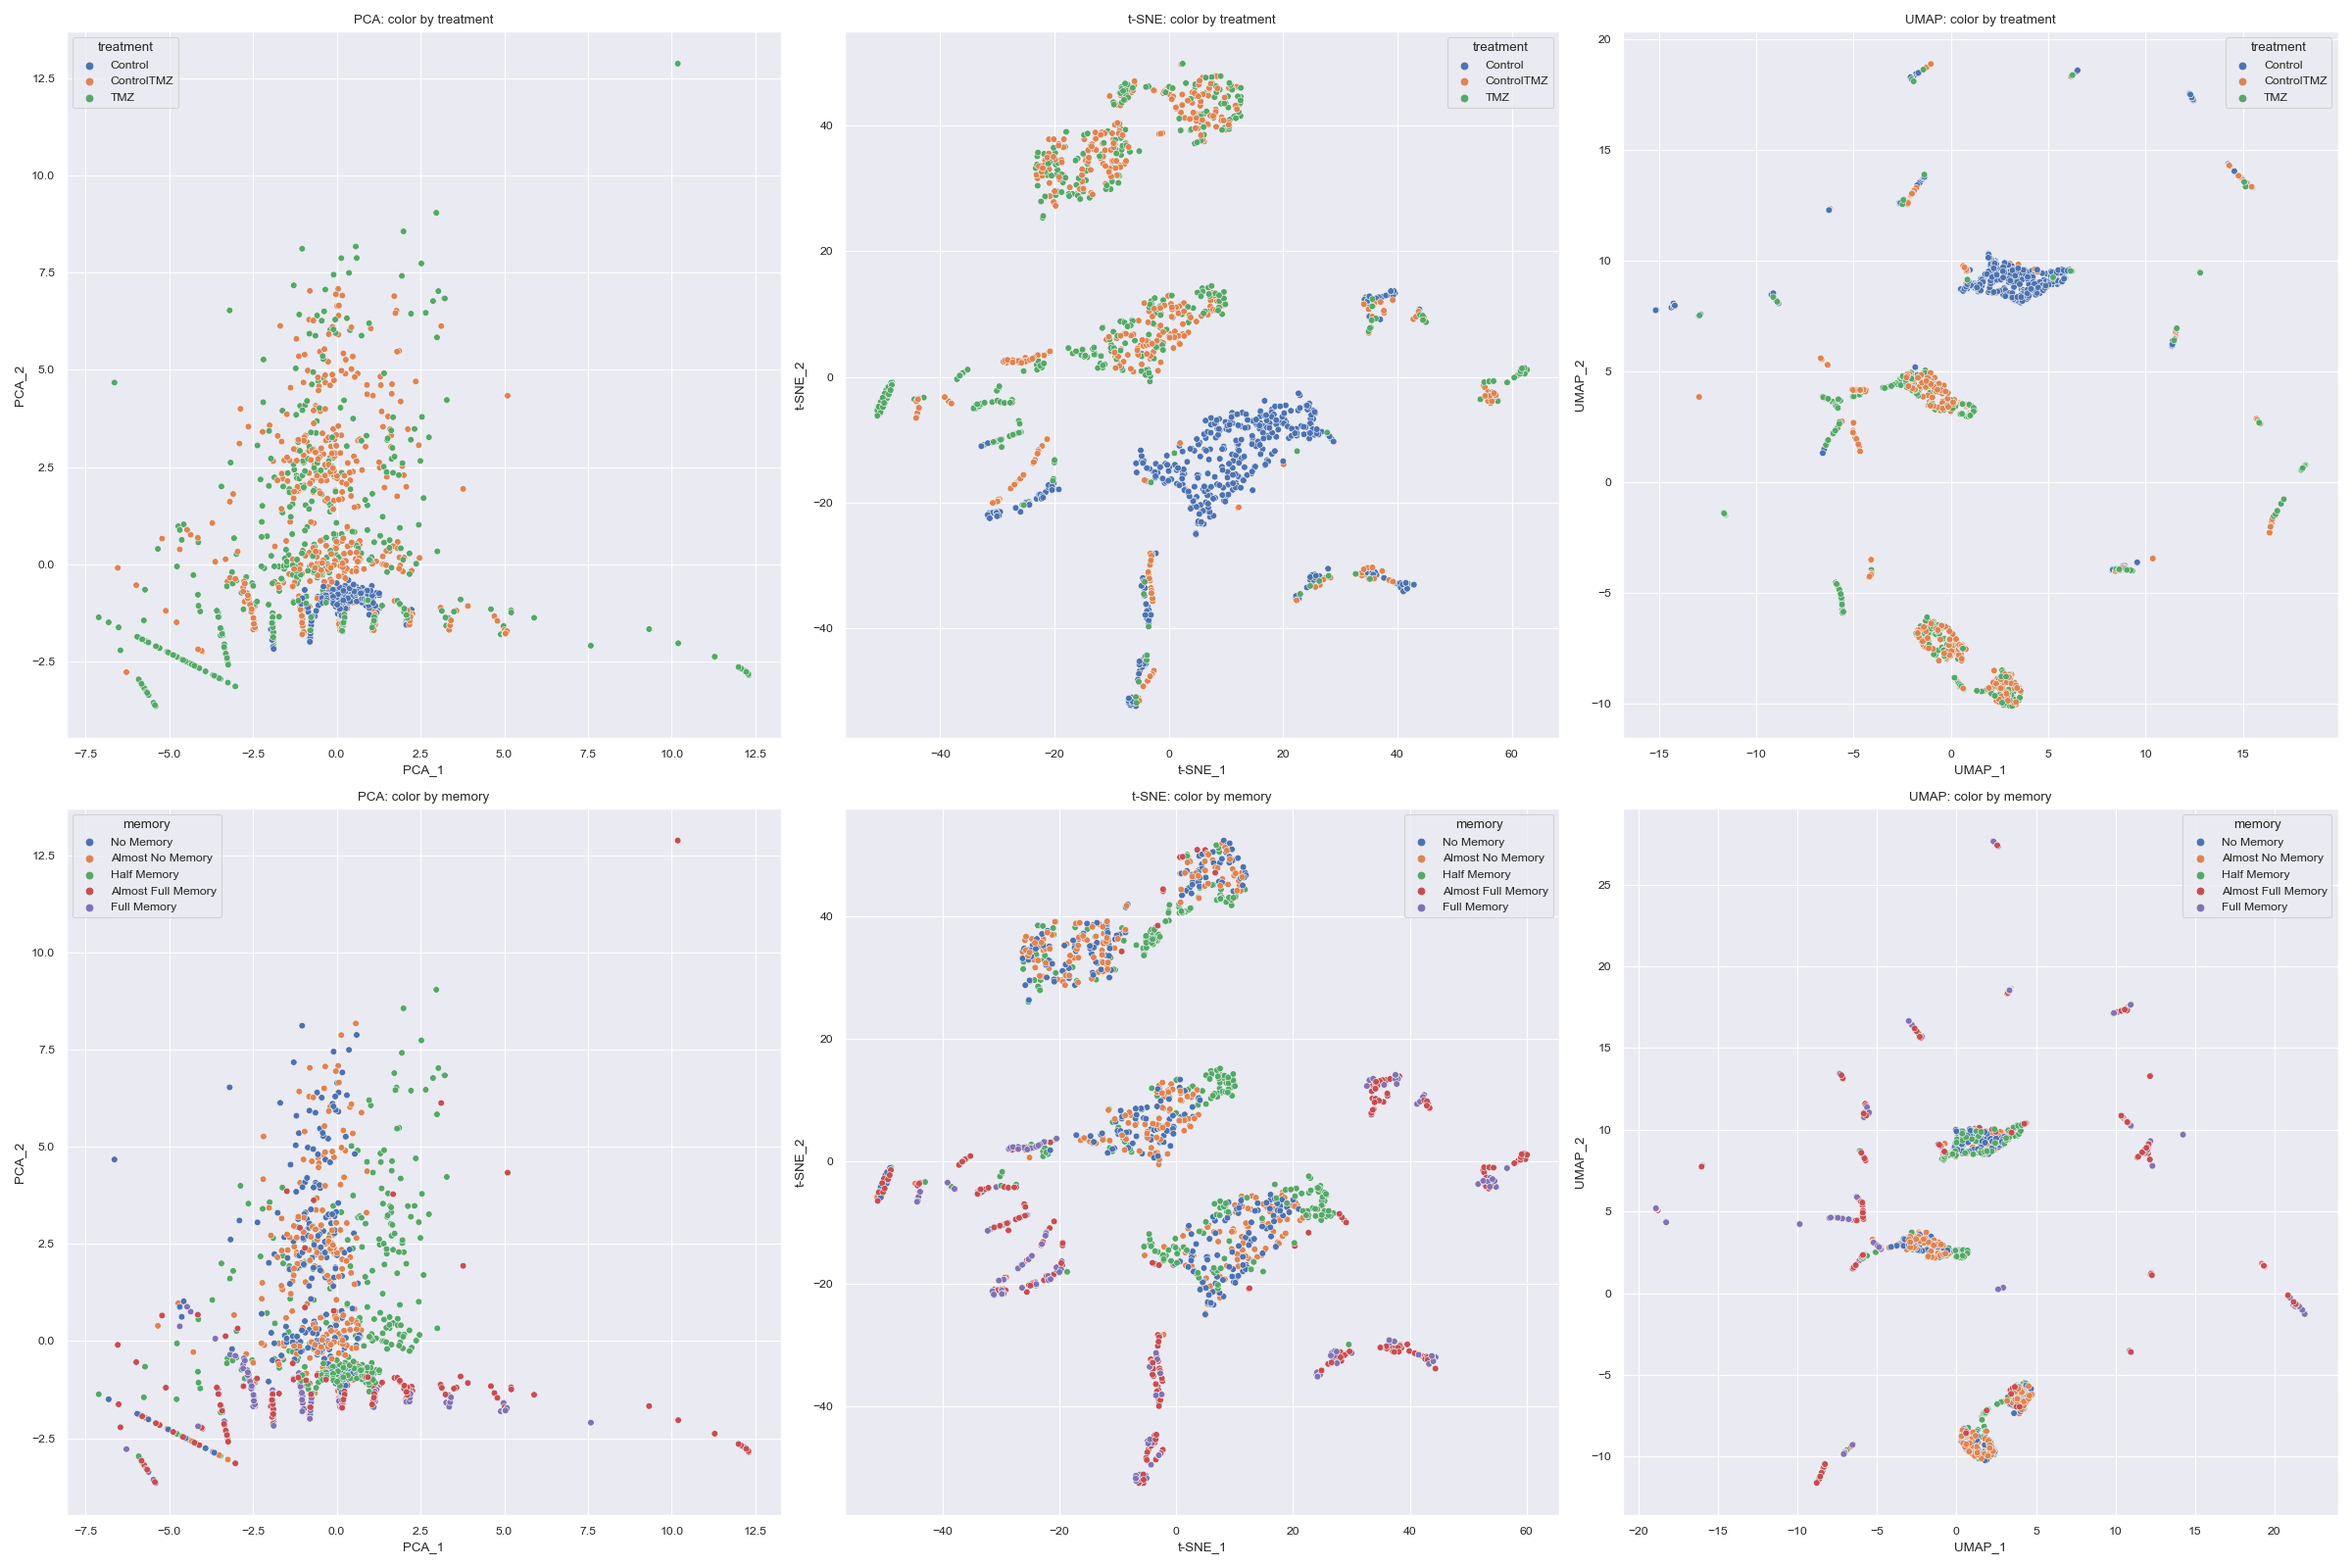
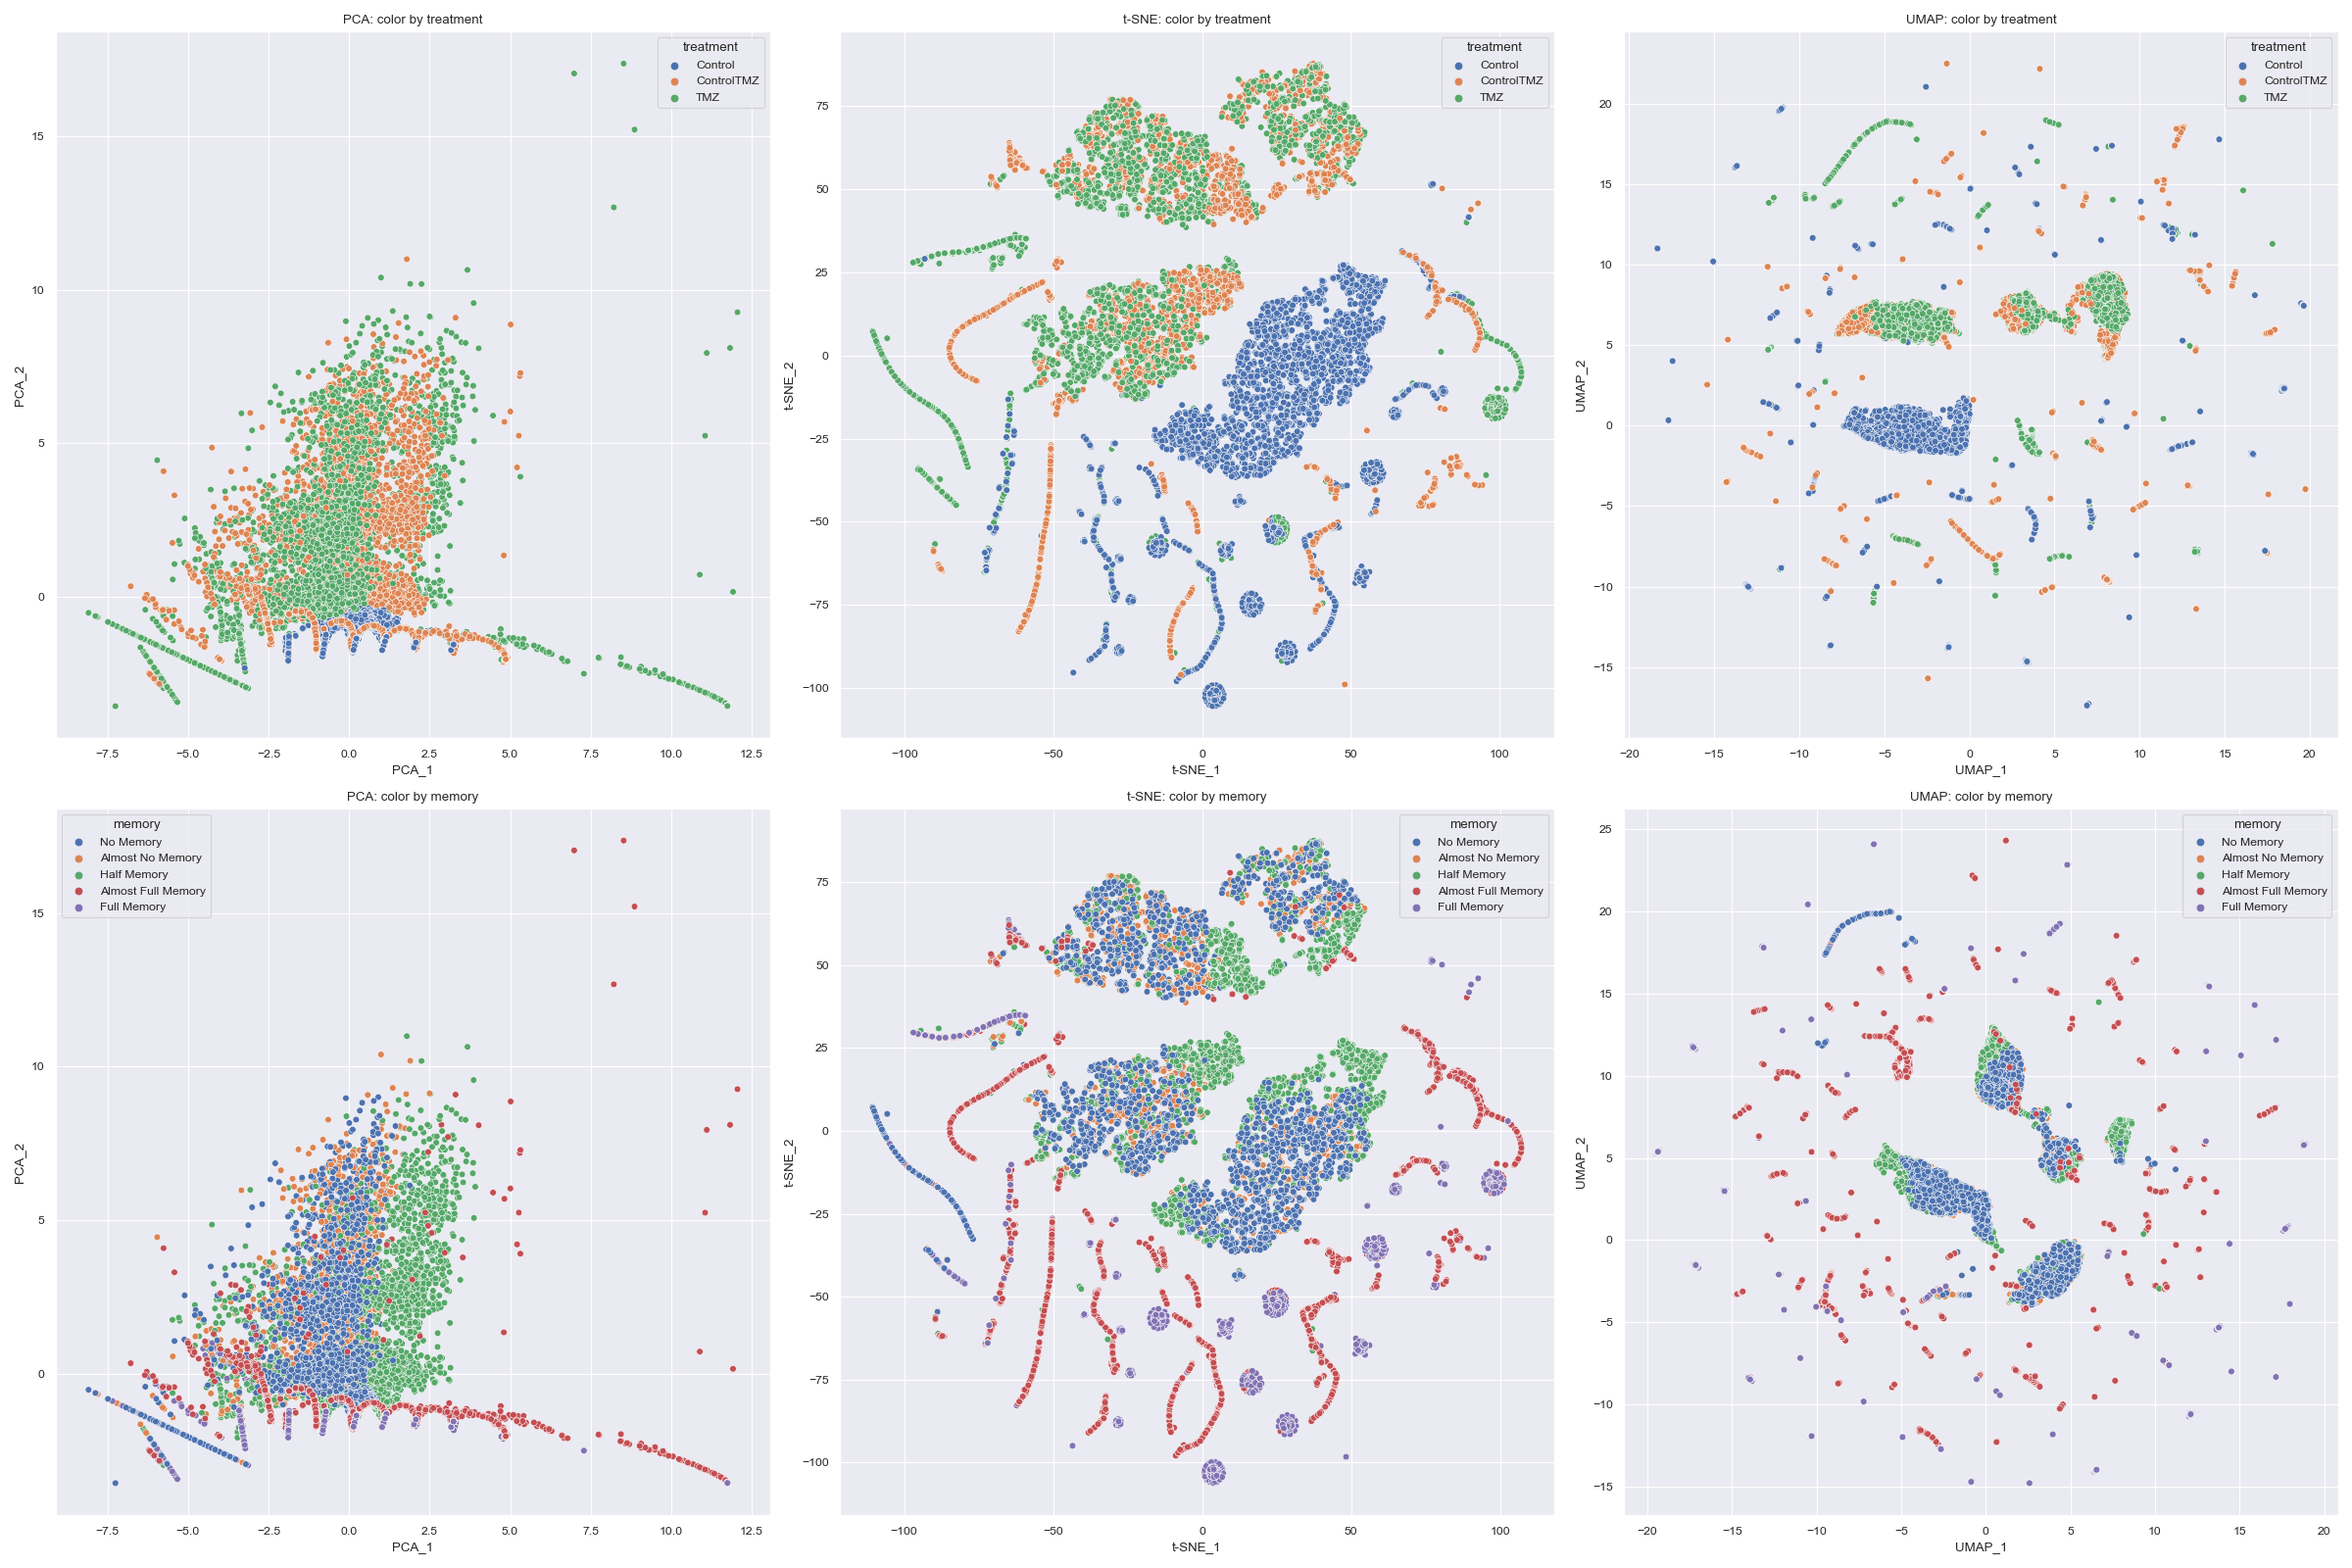
Added new dimensionality reduction figure.

diff --git a/scripts/ML Tree Test/plot_tree_stats_dim_reduction.py b/scripts/ML Tree Test/plot_tree_stats_dim_reduction.py
@@ -23,7 +23,7 @@ sns.set_context('paper')
 SETTINGS = {
     'input_folder': ROOT_PATH / 'scripts' / 'ML Tree Test' / 'results',
     'output_folder': ROOT_PATH / 'scripts' / 'ML Tree Test' / 'results',
-    'save_figure': False,
+    'save_figure': True,
     'palette': None,
     'pca_params': {
         'n_components': 2,
